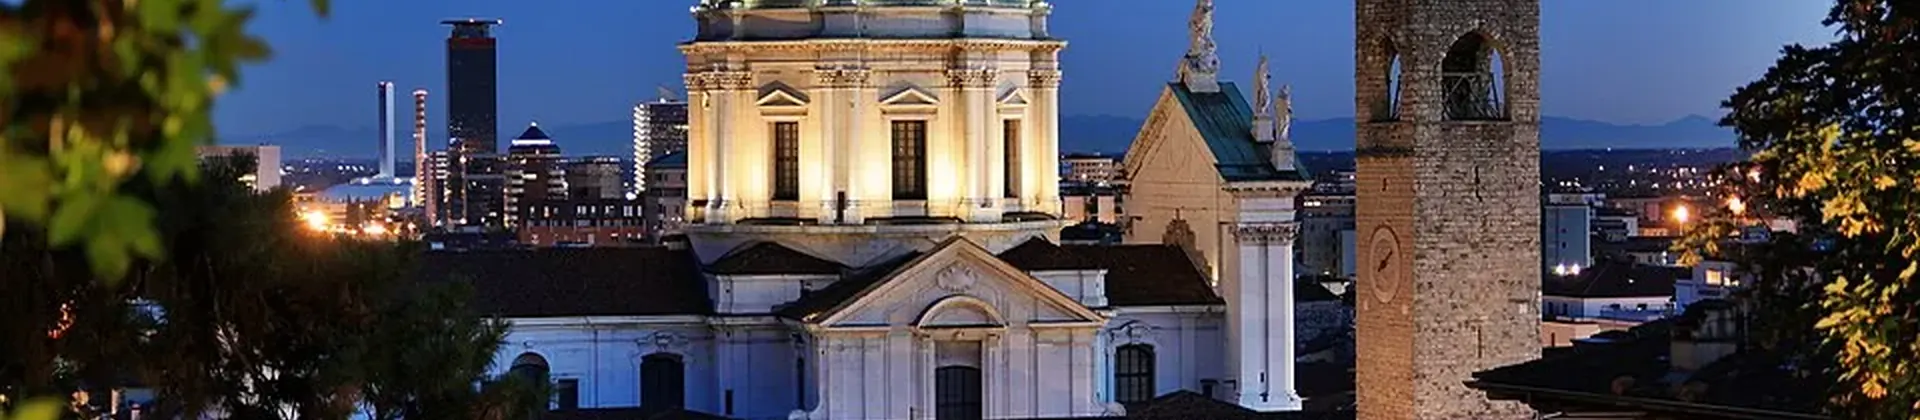
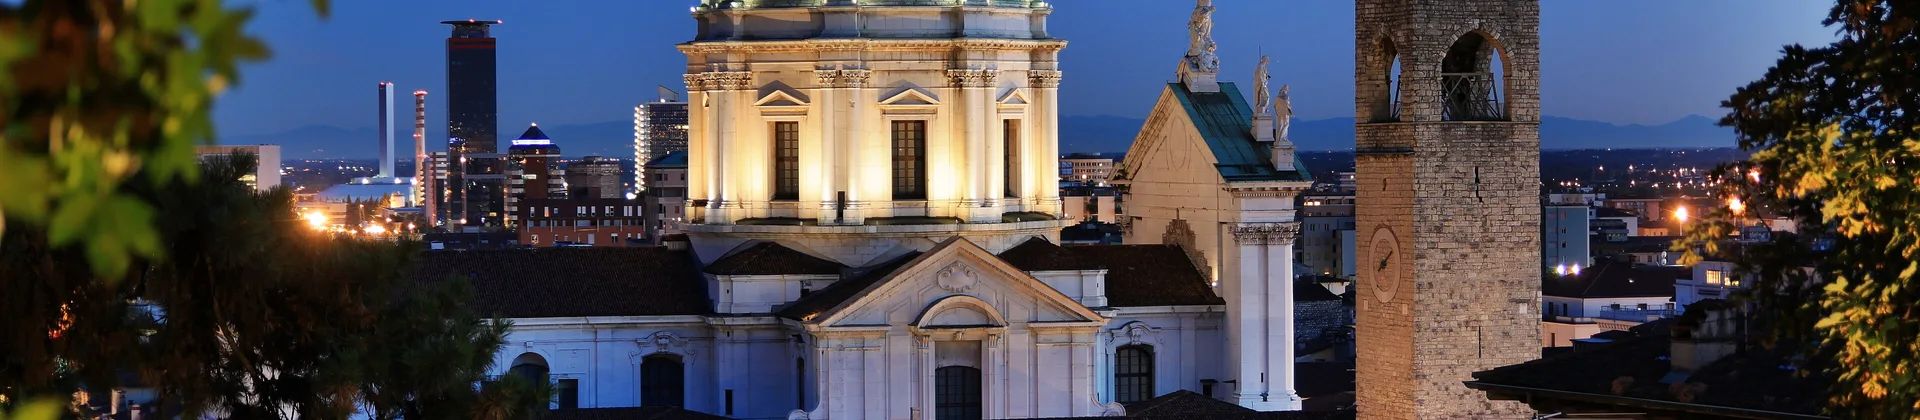
feat(brescia): cityHeader override + new header asset

diff --git a/src/content/blog/torneo-brescia-luglio-2026-en.md b/src/content/blog/torneo-brescia-luglio-2026-en.md
@@ -5,6 +5,7 @@ category: 'comunita'
 tags: ['brescia', 'torneo']
 featuredImage: '/images/comunita/brescia/smudge-is-back-to-town.webp'
 poster: '/images/comunita/brescia/smudge-is-back-to-town.webp'
+cityHeader: '/images/headers/header-brescia.webp'
 excerpt: 'VTES tournament in Rezzato (BS) on Saturday, July 4, 2026 — proxies and multideck allowed, €15 with apéritif-lunch included.'
 venue:
   name: 'Osteria da Silvia'
@@ -21,10 +22,6 @@ events:
 pricing:
   - label: 'Entry fee'
     regular: '€15 (apéritif-lunch included)'
-notes:
-  - 'Proxies allowed.'
-  - 'Multideck allowed.'
-cardHidden: true
 locale: 'en'
 ---
 

diff --git a/src/content/blog/torneo-brescia-luglio-2026.md b/src/content/blog/torneo-brescia-luglio-2026.md
@@ -5,6 +5,7 @@ category: 'comunita'
 tags: ['brescia', 'torneo']
 featuredImage: '/images/comunita/brescia/smudge-is-back-to-town.webp'
 poster: '/images/comunita/brescia/smudge-is-back-to-town.webp'
+cityHeader: '/images/headers/header-brescia.webp'
 excerpt: 'Torneo VTES a Rezzato (BS) sabato 4 luglio 2026 — proxy e multideck consentiti, €15 con aperipranzo incluso.'
 venue:
   name: 'Osteria da Silvia'
@@ -21,10 +22,6 @@ events:
 pricing:
   - label: 'Iscrizione'
     regular: '15 € (aperipranzo incluso)'
-notes:
-  - 'Proxy consentiti.'
-  - 'Multideck consentito.'
-cardHidden: true
 locale: it
 ---
 